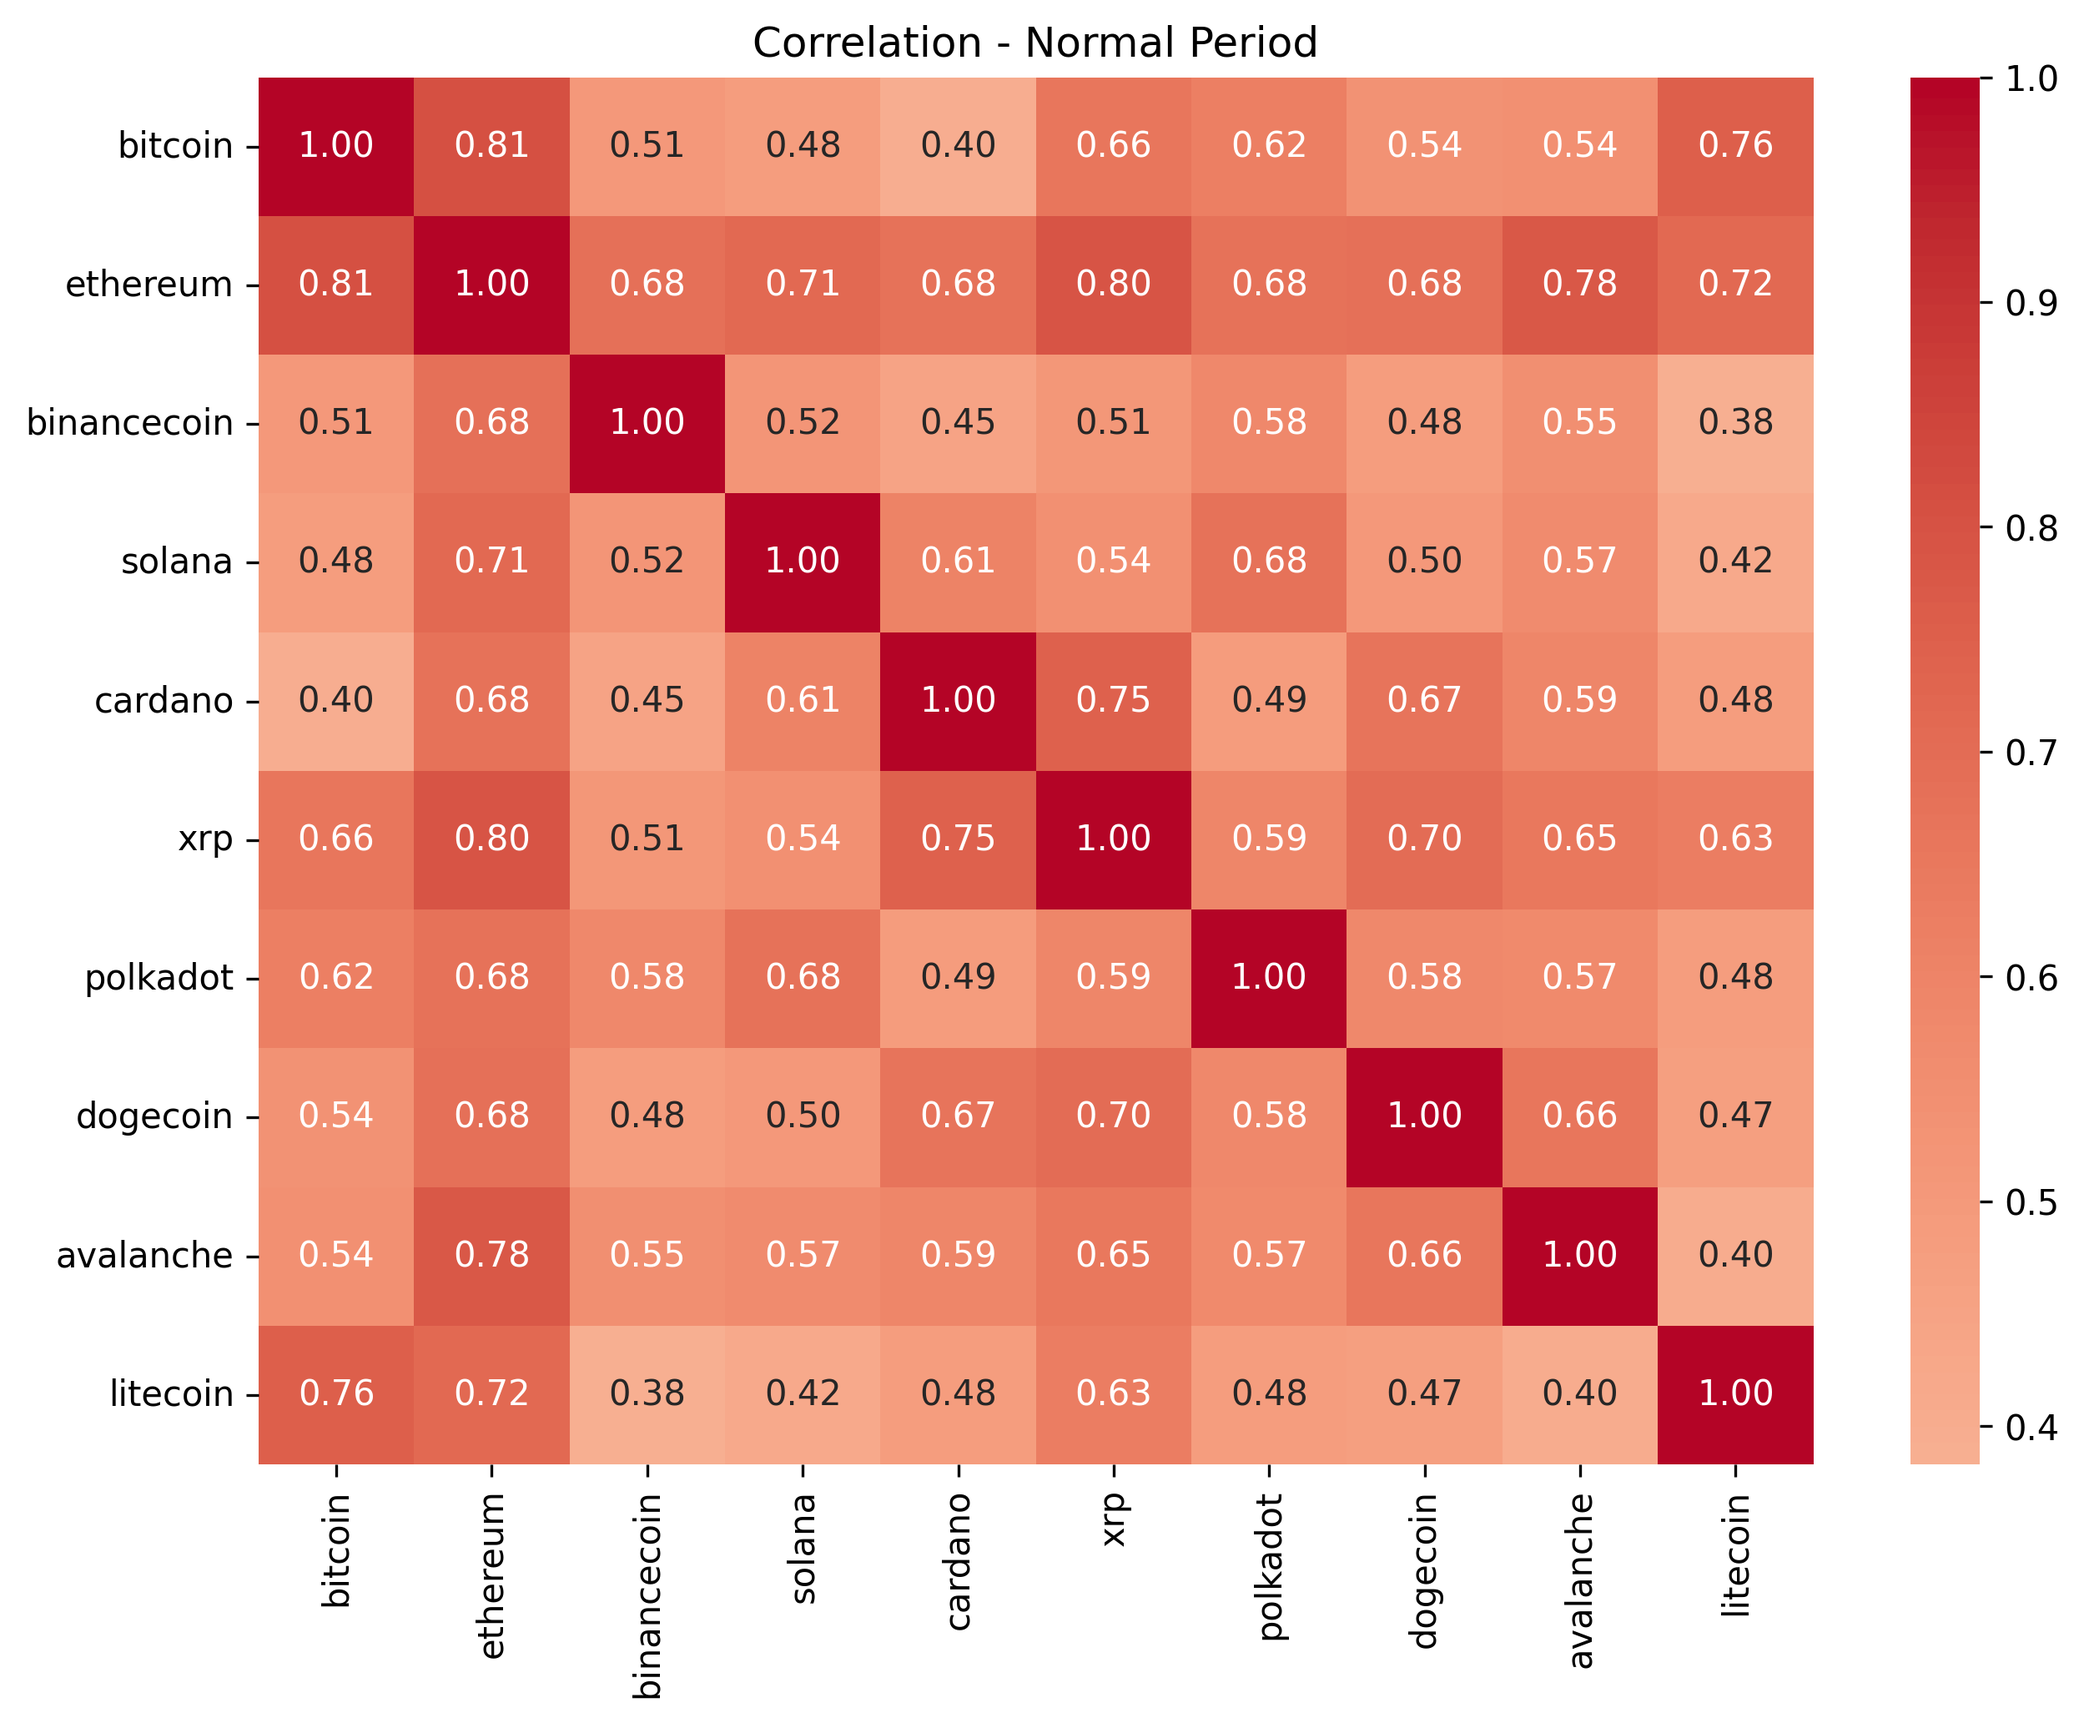
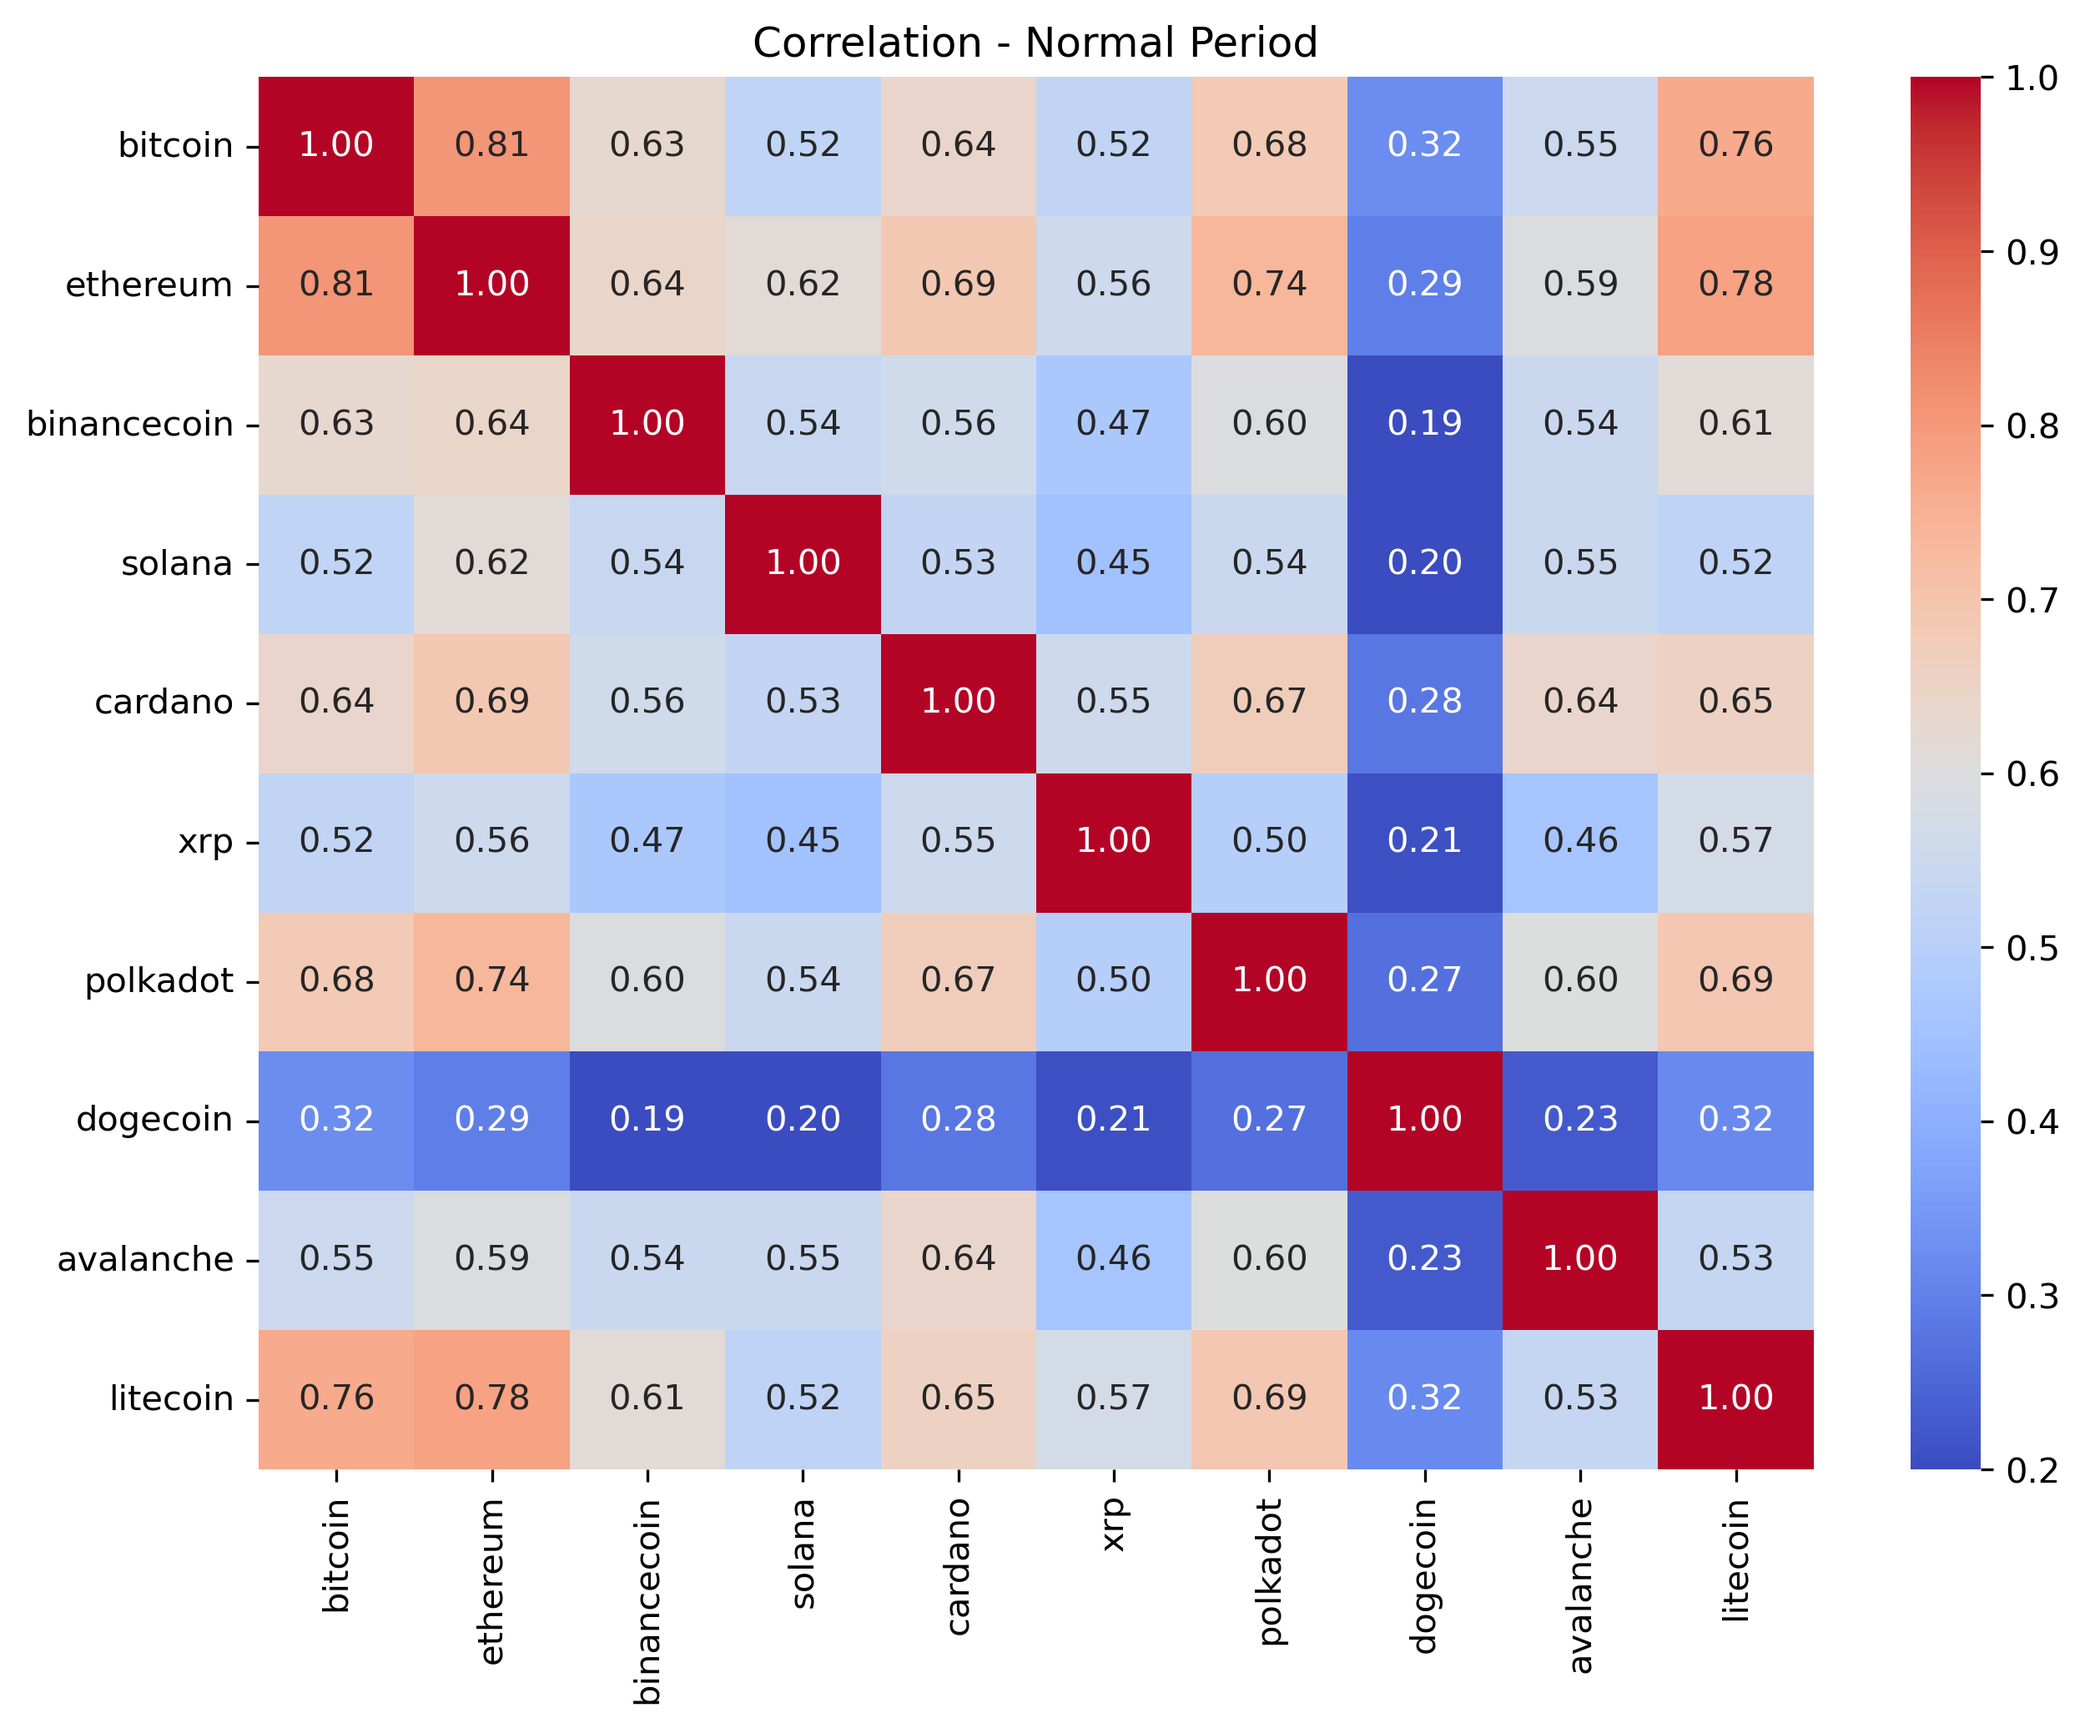
Updated figures and scripts for correlation analysis

diff --git a/src/regime_analysis.py b/src/regime_analysis.py
@@ -1,5 +1,5 @@
 """
-Detect stress/crash windows from a market index (built from returns),
+Detect stress windows from a market index (built from returns),
 and compute correlations and volatility during stress vs normal periods.
 """
 
@@ -33,46 +33,35 @@ def compute_drawdown(index: pd.Series) -> pd.Series:
     drawdown.name = "drawdown"
     return drawdown
 
-def detect_regimes_by_drawdown(drawdown: pd.Series,
-                               crash_thresh: float = -0.25,
-                               stress_thresh: float = -0.10,
-                               min_len: int = 3) -> Dict[str, List[Tuple[pd.Timestamp, pd.Timestamp]]]:
-
-    regimes = {"crash": [], "stress": []}
-
-    def contiguous_windows(mask):
-        windows = []
-        in_window = False
-        start = None
-        for ts, val in mask.items():
-            if val and not in_window:
-                in_window = True
-                start = ts
-            if not val and in_window:
-                end = prev_ts
-                if (end - start).days + 1 >= min_len:
-                    windows.append((start, end))
-                in_window = False
-            prev_ts = ts
-        if in_window:
+def detect_stress_periods(drawdown: pd.Series,
+                          stress_thresh: float = -0.10,
+                          min_len: int = 3) -> List[Tuple[pd.Timestamp, pd.Timestamp]]:
+    """
+    Detect contiguous windows where drawdown exceeds the stress threshold.
+    Returns a list of (start, end) tuples.
+    """
+    windows = []
+    in_window = False
+    start = None
+    for ts, val in drawdown.items():
+        if val <= stress_thresh and not in_window:
+            in_window = True
+            start = ts
+        elif val > stress_thresh and in_window:
             end = prev_ts
             if (end - start).days + 1 >= min_len:
                 windows.append((start, end))
-        return windows
+            in_window = False
+        prev_ts = ts
+    if in_window:
+        end = prev_ts
+        if (end - start).days + 1 >= min_len:
+            windows.append((start, end))
+    return windows
 
-    crash_mask = drawdown <= crash_thresh
-    stress_mask = (drawdown <= stress_thresh) & (drawdown > crash_thresh)
-
-    regimes["crash"] = contiguous_windows(crash_mask)
-    regimes["stress"] = contiguous_windows(stress_mask)
-    return regimes
-
-def pick_representative_period(regimes: Dict[str, List[Tuple[pd.Timestamp, pd.Timestamp]]],
-                               kind: str = "stress") -> Tuple[pd.Timestamp, pd.Timestamp]:
-
-    windows = regimes.get(kind, [])
+def pick_representative_period(windows: List[Tuple[pd.Timestamp, pd.Timestamp]]) -> Tuple[pd.Timestamp, pd.Timestamp]:
     if not windows:
-        raise ValueError(f"No windows found for regime type '{kind}'")
+        raise ValueError("No stress periods found")
     lengths = [(win[1] - win[0]).days + 1 for win in windows]
     idx = int(np.argmax(lengths))
     return windows[idx]
@@ -89,7 +78,7 @@ def regime_correlation_and_volatility(returns: pd.DataFrame, window: Tuple[pd.Ti
 
 def plot_heatmap(matrix: pd.DataFrame, title: str, fname: str):
     fig, ax = plt.subplots(figsize=(9, 7))
-    sns.heatmap(matrix, annot=True, fmt=".2f", cmap="coolwarm", center=0, ax=ax)
+    sns.heatmap(matrix, annot=True, fmt=".2f", cmap="coolwarm", vmin=0.2, vmax=1.0, ax=ax)
     ax.set_title(title)
     fig.tight_layout()
     path = os.path.join(FIGURES_DIR, fname)
@@ -107,22 +96,21 @@ def main():
     drawdown = compute_drawdown(market_idx)
     drawdown.to_csv(os.path.join(OUTPUTS_DIR, "market_drawdown.csv"))
 
-    # Detect regimes
-    regimes = detect_regimes_by_drawdown(drawdown, crash_thresh=-0.25, stress_thresh=-0.10)
+    # Detect stress periods
+    stress_windows = detect_stress_periods(drawdown, stress_thresh=-0.10)
 
-    # Save detected regimes list
+    # Save detected stress periods
     regimes_df = []
-    for kind in ["crash", "stress"]:
-        for start, end in regimes[kind]:
-            regimes_df.append({"kind": kind, "start": start, "end": end})
+    for start, end in stress_windows:
+        regimes_df.append({"kind": "stress", "start": start, "end": end})
     if regimes_df:
         pd.DataFrame(regimes_df).to_csv(os.path.join(OUTPUTS_DIR, "detected_regimes.csv"))
 
-    # Stress window
-    stress_window = pick_representative_period(regimes, "stress")
+    # Pick representative stress window
+    stress_window = pick_representative_period(stress_windows)
     stress_len = (stress_window[1] - stress_window[0]).days + 1
 
-    # Normal window: search for period with low drawdown
+    # Normal window: period with low drawdown, same length as stress
     valid_dates = drawdown.index
     candidate = None
     for center in valid_dates:
@@ -132,13 +120,11 @@ def main():
             if drawdown.loc[start:end].abs().max() < 0.02:
                 candidate = (start, end)
                 break
-
     if candidate is None:
         candidate = (valid_dates[0], valid_dates[0] + pd.Timedelta(days=stress_len - 1))
-
     normal_window = candidate
 
-    # Compute regime correlations and vol
+    # Compute correlations and volatility
     corr_stress, vol_stress = regime_correlation_and_volatility(returns, stress_window)
     corr_normal, vol_normal = regime_correlation_and_volatility(returns, normal_window)
 
@@ -147,11 +133,20 @@ def main():
     vol_stress.to_csv(os.path.join(OUTPUTS_DIR, "vol_stress.csv"))
     vol_normal.to_csv(os.path.join(OUTPUTS_DIR, "vol_normal.csv"))
 
-    # Plot heatmaps (still available)
+    # Plot heatmaps
     plot_heatmap(corr_normal, "Correlation - Normal Period", "corr_normal_heatmap.png")
     plot_heatmap(corr_stress, "Correlation - Stress Period", "corr_stress_heatmap.png")
-
-    # Clustering stability still computed, but NOT saved
+    corr_diff = corr_stress - corr_normal
+    # Difference heatmap
+    fig, ax = plt.subplots(figsize=(9, 7))
+    sns.heatmap(corr_diff, annot=True, fmt=".2f", cmap="coolwarm", center=0,
+            vmin=-0.5, vmax=0.5, ax=ax)  # <-- adjust these limits
+    ax.set_title("Correlation Difference (Stress - Normal)")
+    fig.tight_layout()
+    fig.savefig(os.path.join(FIGURES_DIR, "corr_diff_heatmap.png"), dpi=300, bbox_inches="tight")
+    plt.close(fig)
+    print(f"Saved: {os.path.join(FIGURES_DIR, 'corr_diff_heatmap.png')}")
+    # Clustering stability
     r_normal = slice_returns(returns, normal_window)
     r_stress = slice_returns(returns, stress_window)
     _ = KMeans(n_clusters=4, random_state=0, n_init=10).fit_predict(r_normal.corr().values)
@@ -181,18 +176,17 @@ def load_regime_outputs():
     # Volatility
     vol_normal = pd.read_csv(f"{OUTPUTS_DIR}/vol_normal.csv", index_col=0)
     if vol_normal.shape[1] == 1:
-        vol_normal = vol_normal.iloc[:, 0]  # convert single-column DataFrame to Series
+        vol_normal = vol_normal.iloc[:, 0]
 
     vol_stress = pd.read_csv(f"{OUTPUTS_DIR}/vol_stress.csv", index_col=0)
     if vol_stress.shape[1] == 1:
-        vol_stress = vol_stress.iloc[:, 0]  # convert single-column DataFrame to Series
+        vol_stress = vol_stress.iloc[:, 0]
 
-    # Cluster labels for regime windows
+    # Cluster labels fallback
     cluster_labels_path = f"{OUTPUTS_DIR}/cluster_labels.csv"
     if os.path.exists(cluster_labels_path):
         cluster_labels = pd.read_csv(cluster_labels_path, index_col=0, squeeze=True)
     else:
-        # fallback if no cluster labels exist
         cluster_labels = pd.Series([0, 1, 2, 3], index=[0,1,2,3])
 
     return corr_normal, corr_stress, vol_normal, vol_stress, cluster_labels

diff --git a/src/correlation_analysis.py b/src/correlation_analysis.py
@@ -71,6 +71,7 @@ def plot_average_correlation(corr_df: pd.DataFrame, figures_folder: str, title: 
     mean_corr.to_csv(os.path.join(OUTPUTS_FOLDER, fname.replace(".png", ".csv")))
     plt.close()
 
+
 def detect_correlation_regimes(corr_df: pd.DataFrame, title: str, threshold_std: float = 1.0) -> pd.DataFrame:
     """
     Identify high/low correlation regimes.
